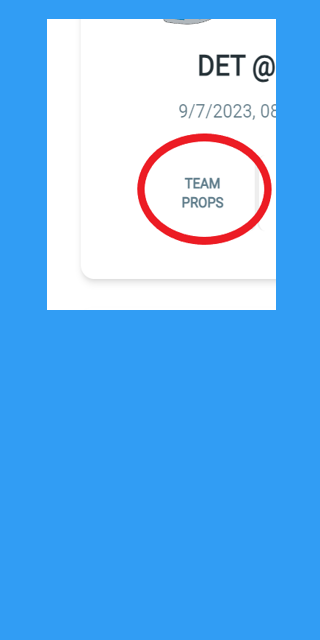
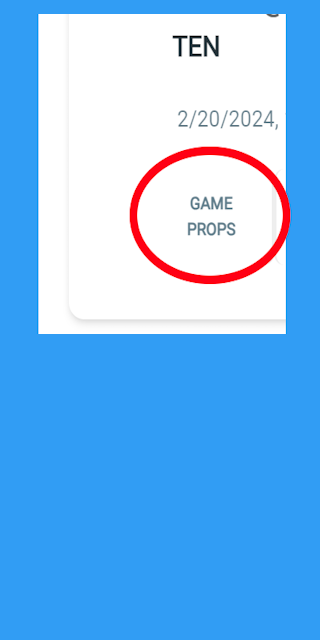
update instruction popup

Changed region(s): [[0.0938, 0.0, 0.9375, 0.5312]]

diff --git a/src/Components/InstructionCarousel.js b/src/Components/InstructionCarousel.js
@@ -35,7 +35,7 @@ const InstructionCarousel = (size) => {
         },
         {
             slide: (size.size === "big" ? slide4 : slide4_small),
-            instruction: "The \"Team Props\" button on a game card will allow you to toggle seeing upcoming lines for team-related props, such as moneyline, spreads, and totals."
+            instruction: "The \"Game Props\" button on a game card will allow you to toggle seeing upcoming lines for game-related props, such as moneyline, spreads, and totals."
         },
         {
             slide: (size.size === "big" ? slide5 : slide5_small),
